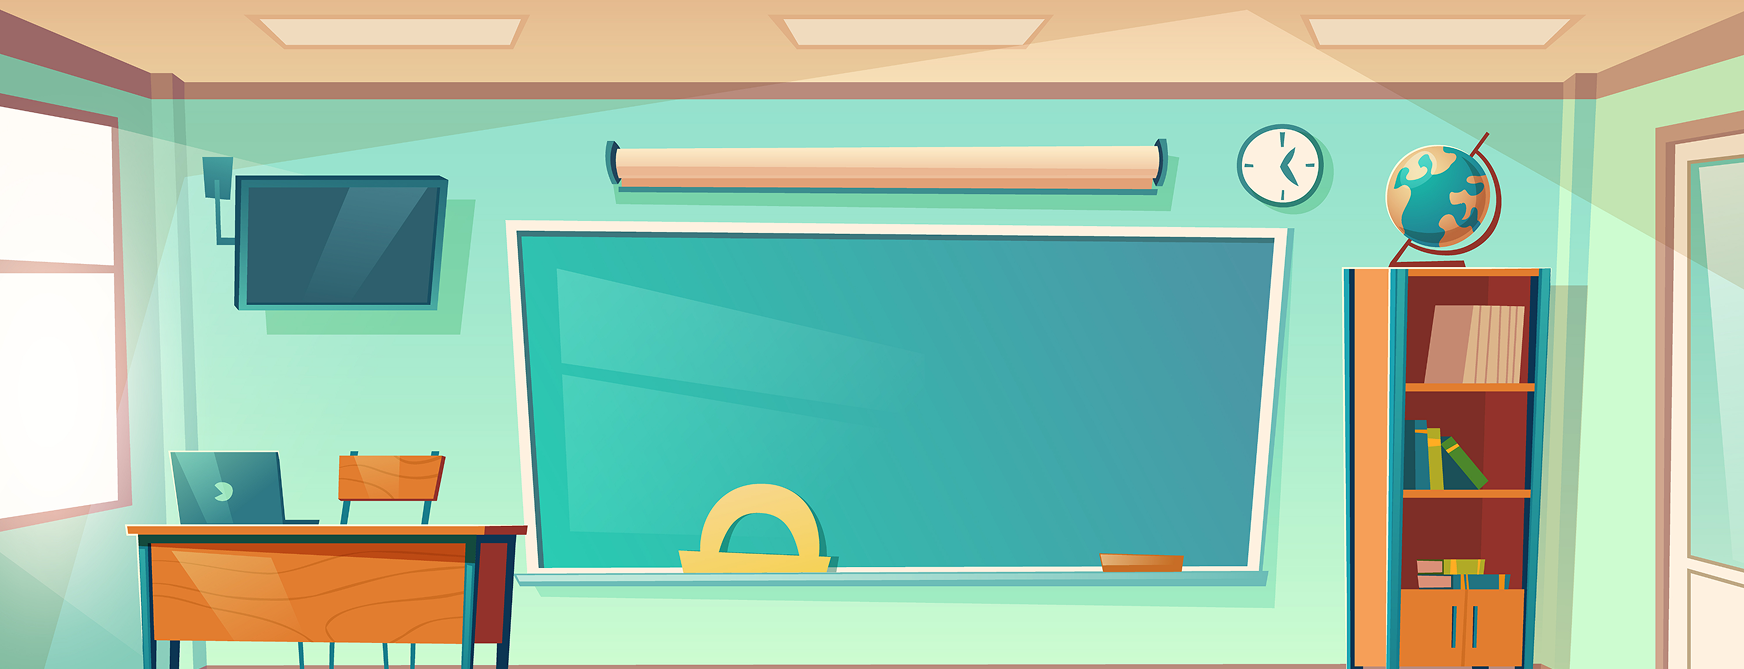
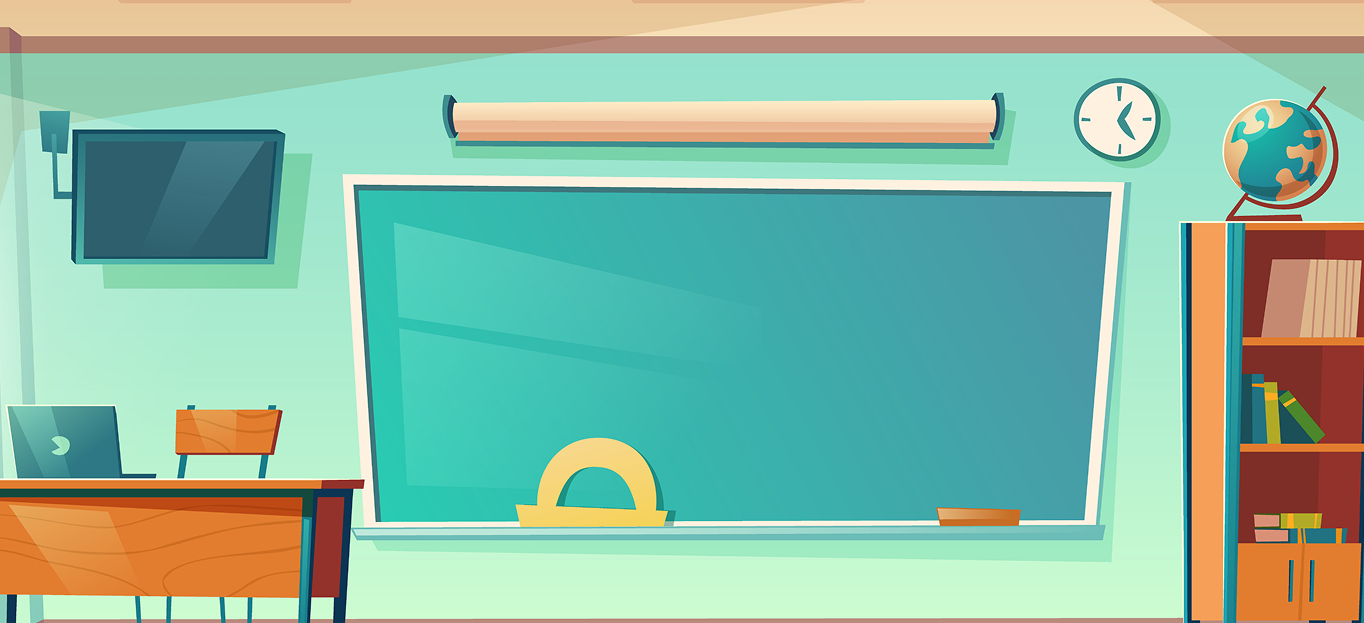
fixed the pictures, top bar and side bars Co-authored-by: anghag <anghag@users.noreply.github.com> Co-authored-by: AliceOlsonn <AliceOlsonn@users.noreply.github.com>

diff --git a/style.css b/style.css
@@ -1,9 +1,8 @@
-/* Add a black background color to the top navigation */
-
 html{
- background-color: rgb(225, 216, 168);
+ background-color: rgb(251, 240, 177);
 }
 
+/* for top navigation bar*/
 .navbar {
   position: fixed;
   top: 0;
@@ -15,12 +14,16 @@ html{
   background-color: white;
   z-index: 1000;
   box-shadow: 0 2px 2px rgba(0,0,0,0.1);
-
+  height: 10%;
 }
+
+
+
 .topnav {
   display: flex;          /* arrange children horizontally */
   align-items: center;    /* vertically center the image and text */
   gap: 10px;              /* space between image and text */
+  padding-left: 5px;
 }
 
 .topnavright {
@@ -29,37 +32,46 @@ html{
   gap: 10px;              /* space between image and text */
 }
 
-/* Change the color of links on hover */
+.topnav h1 {
+  font-family: 'Irish Grover', cursive;
+   font-size: 2.8vw;
+   color: #83c0c7
+}
+
 .topnav a:hover {
   background-color: #ddd;
   color: black;
+  border-radius: 10px;
 }
 
 .topnavright a.signinbtn {
   float: right;
   background-color: #83c0c7;
-  padding: 5px 10px;
+  padding: 7px 10px;
   color: white;
   text-decoration: none;
-  font-size: 15px;
+  font-size: 1.15vw;
+  border-radius: 10px;
 }
 
 .topnavright a.registerbtn {
   float: right;
   background-color: #788789;
-  padding: 5px 10px;
+  padding: 7px 10px;
   color: white;
   text-decoration: none;
-  font-size: 15px;
-  margin-right: 10px
+  font-size: 1.15vw;
+  margin-right: 10px;
+  border-radius: 10px;
 
 }
 
 .topnavright a.righttablink{
   text-decoration: none;
   color: #788789;
-  font-size: 15px;
   padding: 10px 8px;
+  border-radius: 10px;
+  font-size: 1.15vw;
 }
 
 .topnavright a:hover {
@@ -67,76 +79,91 @@ html{
   color: black;
 }
 
+/* side bars */
 
-/*Side bar */
-/*
-.tab {
+.sideTabL {
     position: fixed;
-    top: 50px;
+    top: 10%;
     left: 0;
     background-color: white;
     width: 15%;
     height: 100vh;
-    box-shadow: 2px 0 2px -4px rgba(0,0,0,0.3);
-    z-index: 100;     
-
+    box-shadow: 2px 0 4px -2px rgba(0,0,0,0.3);
+    z-index: 100;
+    
   }
-.tab button{
-  background-color: inherit;
+  
+.sideTabL a:hover {
+    background-color: #ddd;
+}
+
+.sideTabL h1 {
+    padding-top: 20px;
+    padding-left: 20px;
+    border-bottom: 2px solid rgb(203, 198, 198);
+    padding-bottom: 15px;
+    margin-bottom: 1px; 
+    font-size: 1.3vw;
+    font-family: Cambria, Cochin, Georgia, Times, 'Times New Roman', serif;
+    color: rgb(87, 85, 85);
+    font-weight: normal;
+  }
+  
+.sideTabL a.level{
+  display: block;
+  text-decoration: none;
   color: black;
-  padding: 10px 16px;
+  padding: 12px 20px;
+  box-sizing: border-box; 
   width: 100%;
   border: none;
   outline: none;
   text-align: left;
   cursor: pointer;
-  font-size: 18px;
+  font-size: 1.3vw;
   transition: background-color 0.3s;
-  }
-.tab button:hover {
-    background-color: #ddd;
+  font-family: Cambria, Cochin, Georgia, Times, 'Times New Roman', serif;
+  word-spacing: 7px;
 }
-
-.tab h1 {
-    padding-top: 10px;
-    padding-left: 10px;
-    border-bottom: 2px solid rgb(64, 64, 64);
-    padding-bottom: 15px;
-    margin-bottom: 1px; 
-    font-size: 18px;
-  }
-  
-.tab a.buttonLink{
+.sideTabL a.arrow{
   text-decoration: none;
   color: black;
-}
+  padding: 10px 16px;
+  box-sizing: border-box; 
+  width: 100%;
+  outline: none;
+  text-align: left;
+  cursor: pointer;
+  font-size: 18px;
+  transition: background-color 0.3s;
+  border-radius: 10px;
   
+}
 
-.tabright {
+.sideTabR {
     position: fixed;
-    top: 50px;
+    top: 10%;
     right: 0;
     background-color: white;
     width: 15%;
     height: 100vh;
-    box-shadow: 2px 0 2px -4px rgba(0,0,0,0.3);
+    box-shadow: -2px 0 4px -2px rgba(0,0,0,0.3);
     z-index: 100;     
   }
 
 
- /* .flex-container{
-    flex: 1;                 
-    display: flex;
-    justify-content: center;
-    align-items: center;
-    overflow: hidden;
-    height: 450px; 
+/* for questions in addition*/
+  .input-container {
+  margin-top: 80px;              /* pushes below navbar */
+  display: flex;
+  justify-content: center;       /* center horizontally */
+}
 
-  }*/
 
-  .flex-container {
+/* background picture in index*/
+
+.flex-container {
   width: 100%;
-  height: 450px;       /* visible height of the image */
   overflow: hidden;    /* hide anything outside the container */
   position: relative;
   
@@ -146,81 +173,48 @@ html{
   width: 100%;
   height: auto;           /* keep aspect ratio */
   display: block;
-  transform: translateY(-35px); /* moves image up 50px, cropping top only */ 
+  transform: translateX(-40px);
   
 }
 
 
-.sideTabL {
-    position: fixed;
-    top: 50px;
-    left: 0;
-    background-color: white;
-    width: 15%;
-    height: 100vh;
-    box-shadow: 2px 0 2px -4px rgba(0,0,0,0.3);
-     z-index: 100; 
-  }
-  
-.sideTabL a:hover {
-    background-color: #ddd;
+.textOnBoard {
+  position: absolute;
+  top: 50%;
+  left: 50%;
+  transform: translate(-50%, -50%);
+  color: white;
+  font-family: 'Love Ya Like A Sister', cursive;
+  z-index: 100;   /* make sure it’s on top of the image */
 }
 
-.sideTabL h1 {
-    padding-top: 10px;
-    padding-left: 10px;
-    border-bottom: 2px solid rgb(64, 64, 64);
-    padding-bottom: 15px;
-    margin-bottom: 1px; 
-    font-size: 18px;
-  }
-  
-.sideTabL a.level{
-    display: block;
-  text-decoration: none;
-  color: black;
-  padding: 10px 16px;
-  box-sizing: border-box; 
-  width: 100%;
-  border: none;
-  outline: none;
-  text-align: left;
-  cursor: pointer;
-  font-size: 18px;
-  transition: background-color 0.3s;
+.textOnBoard h1 {
+ font-size: 4.5vw;
+ font-weight: lighter;
+ margin-bottom: 0px;
+
 }
-.sideTabL a.arrow{
+
+.textOnBoard h3 {
+ font-size: 2.3vw;
+ font-weight: lighter;
+ margin-left: 4vw; 
+ margin-top: 0px;
  
-  text-decoration: none;
-  color: black;
-  padding: 10px 16px;
-  box-sizing: border-box; 
-  width: 100%;
-  border: none;
-  outline: none;
-  text-align: left;
-  cursor: pointer;
-  font-size: 18px;
-  transition: background-color 0.3s;
+
 }
 
-.sideTabR {
-    position: fixed;
-    top: 50px;
-    right: 0;
-    background-color: white;
-    width: 15%;
-    height: 100vh;
-    box-shadow: 2px 0 2px -4px rgba(0,0,0,0.3);
-    z-index: 100;     
-  }
+.cat-container {
+  position: absolute;
+  bottom: 0%;            /* aligns the cat image to bottom of board */
+  left: 60%;            /* center horizontally */
 
-
-  .input-container {
-  margin-top: 80px;              /* pushes below navbar */
-  display: flex;
-  justify-content: center;       /* center horizontally */
+  transform: translate(-40%, 35%);
+  z-index: 101;         /* above board image */
 }
-     
 
+.cat-container img {
+  width: 25vw;         /* adjust size of Pusheen */
+  height: auto;
+}
    

diff --git a/index.html b/index.html
@@ -4,6 +4,8 @@
     <meta charset="UTF-8" />
     <meta name="viewport" content="width=device-width, initial-scale=1.0" />
     <title>Demo Project</title>
+    <link href="https://fonts.googleapis.com/css2?family=Irish+Grover&display=swap" rel="stylesheet"> 
+    <link href="https://fonts.googleapis.com/css2?family=Love+Ya+Like+A+Sister&display=swap" rel="stylesheet">    
     <link rel="stylesheet" href="style.css" />
   </head>
   <body>
@@ -14,9 +16,8 @@
 
         <!--<a href="#about" class="Help">Help</a>
         <a href="#home" class="split">Home </a>-->
-         <a><input type="image" src="pictures/computercat.png" name="saveForm" class="btTxt submit" id="saveForm"/></a>
-        <h1 style="font-family: Impact, Haettenschweiler, 'Arial Narrow Bold', sans-serif; font-size: 20px; color: #83c0c7;">CatCulation</h1>
-    
+        <a><input type="image" src="pictures/computercat.png" name="saveForm" class="btTxt submit" id="saveForm"/></a>
+        <h1>CatCulation</h1>    
       </div>
       <div class = "topnavright">
         <a href="#about" class="righttablink">About us</a>
@@ -35,13 +36,25 @@
       <a href="addition.html" class="level">➗ Division</a>
       <a href="addition.html" class="level">✖ Multiplication</a>
     </div>
+
     <div class="sideTabR">
-
     </div>
 
-     <div class ="flex-container">
+    <div class ="flex-container">
       <img src="pictures/board.png">
+      <div class = "textOnBoard">
+        <h1> Welcome to CatCulation</h1>
+        <h3> Learn and enjoy math with Bob the cat!</h3>
+      </div>
+      <div class="cat-container">
+      <img src="pictures/pusheen.png">
     </div>
+    </div>
+
+    
+
+    
+  
 
   </body>
 </html>

diff --git a/addition.html b/addition.html
@@ -4,6 +4,7 @@
     <meta charset="UTF-8" />
     <meta name="viewport" content="width=device-width, initial-scale=1.0" />
     <title>Demo Project</title>
+     <link href="https://fonts.googleapis.com/css2?family=Irish+Grover&display=swap" rel="stylesheet">
     <link rel="stylesheet" href="style.css" />
     <script src="API.js"></script>
   </head>
@@ -16,7 +17,7 @@
         <!--<a href="#about" class="Help">Help</a>
         <a href="#home" class="split">Home </a>-->
         <a href="index.html"><input type="image" src="pictures/computercat.png" name="saveForm" class="btTxt submit" id="saveForm"/></a>
-        <h1 style="font-family: Impact, Haettenschweiler, 'Arial Narrow Bold', sans-serif; font-size: 20px; color: #83c0c7;">CatCulation</h1>
+        <h1>CatCulation</h1>
     
       </div>
        <div class = "topnavright">
